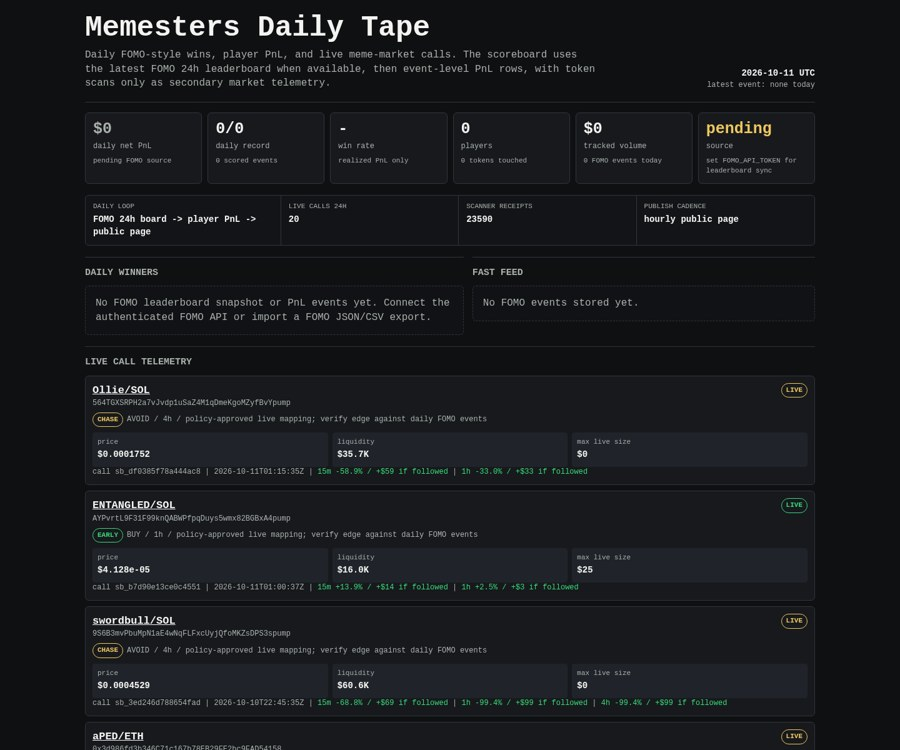
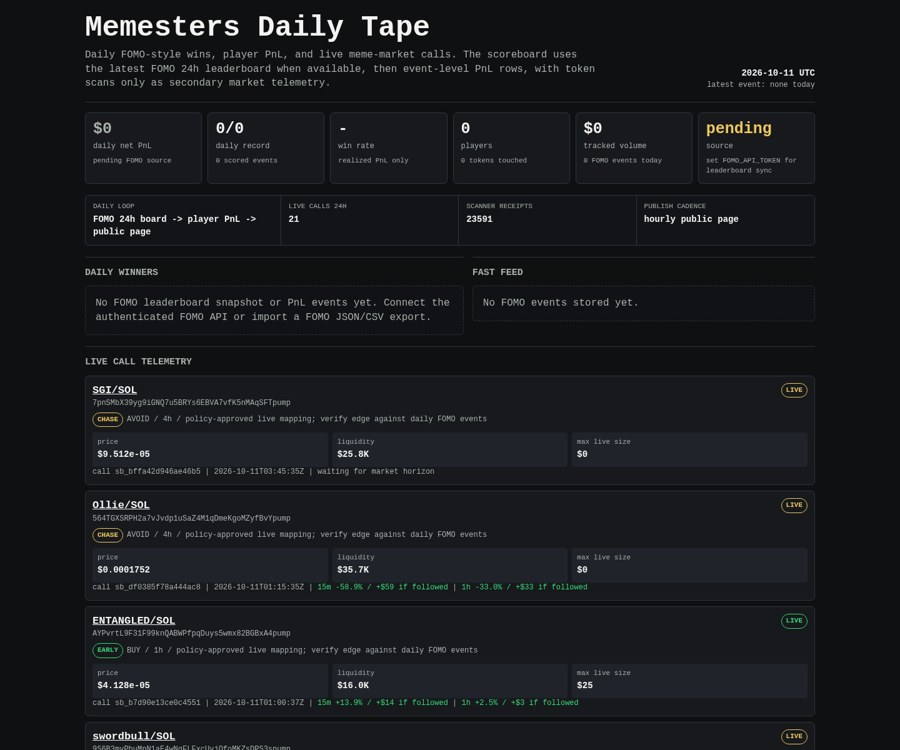
Update Memesters scoreboard

diff --git a/memesters/index.html b/memesters/index.html
@@ -149,8 +149,8 @@
 
     <div class="rail" aria-label="live operating loop">
       <div><span>daily loop</span><b>FOMO 24h board -> player PnL -> public page</b></div>
-      <div><span>live calls 24h</span><b>20</b></div>
-      <div><span>scanner receipts</span><b>23590</b></div>
+      <div><span>live calls 24h</span><b>21</b></div>
+      <div><span>scanner receipts</span><b>23591</b></div>
       <div><span>publish cadence</span><b>hourly public page</b></div>
     </div>
 
@@ -168,6 +168,27 @@
     <section style="margin-top: 18px;">
       <h2>Live Call Telemetry</h2>
       
+    <article class="receipt">
+      <div class="receipt-head">
+        <div>
+          <div class="pair"><a href="https://dexscreener.com/solana/5bametduf87nshofwayw5obrjhorkhx4oohktq5qhcwr">SGI/SOL</a></div>
+          <div class="addr">7pnSMbX39yg9iGNQ7u5BRYs6EBVA7vfK5nMAqSFTpump</div>
+          <div class="addr policy-line">
+            <span class="badge chase">CHASE</span>
+            <span>AVOID / 4h / policy-approved live mapping; verify edge against daily FOMO events</span>
+          </div>
+        </div>
+        <span class="badge chase">LIVE</span>
+      </div>
+      <div class="receipt-grid">
+        <div class="kv"><span>price</span><b>$9.512e-05</b></div>
+        <div class="kv"><span>liquidity</span><b>$25.8K</b></div>
+        <div class="kv"><span>max live size</span><b>$0</b></div>
+      </div>
+      <div class="outcomes">call sb_bffa42d946ae46b5 | 2026-10-11T03:45:35Z | waiting for market horizon</div>
+    </article>
+    
+
     <article class="receipt">
       <div class="receipt-head">
         <div>
@@ -354,27 +375,6 @@
         <div class="kv"><span>max live size</span><b>$0</b></div>
       </div>
       <div class="outcomes">call sb_0a705e4eca6c4257 | 2026-10-10T17:30:37Z | <span class="positive">15m -86.1% / +$86 if followed</span> | <span class="positive">1h -86.3% / +$86 if followed</span> | <span class="positive">4h -85.9% / +$86 if followed</span></div>
-    </article>
-    
-
-    <article class="receipt">
-      <div class="receipt-head">
-        <div>
-          <div class="pair"><a href="https://dexscreener.com/bsc/0xf22af97b4119335643493f1c1eccf5d20da8ffaa">破茧成蝶/USDT</a></div>
-          <div class="addr">0x400161e35C38480393aacAdB806FB0aE02De7777</div>
-          <div class="addr policy-line">
-            <span class="badge chase">CHASE</span>
-            <span>AVOID / 4h / policy-approved live mapping; verify edge against daily FOMO events</span>
-          </div>
-        </div>
-        <span class="badge chase">LIVE</span>
-      </div>
-      <div class="receipt-grid">
-        <div class="kv"><span>price</span><b>$0.0002055</b></div>
-        <div class="kv"><span>liquidity</span><b>$90.9K</b></div>
-        <div class="kv"><span>max live size</span><b>$0</b></div>
-      </div>
-      <div class="outcomes">call sb_bce0c99f9f094906 | 2026-10-10T17:15:37Z | <span class="positive">15m -48.0% / +$48 if followed</span> | <span class="positive">1h -52.8% / +$53 if followed</span> | <span class="negative">4h +5.1% / -$5 if followed</span></div>
     </article>
     
     </section>
